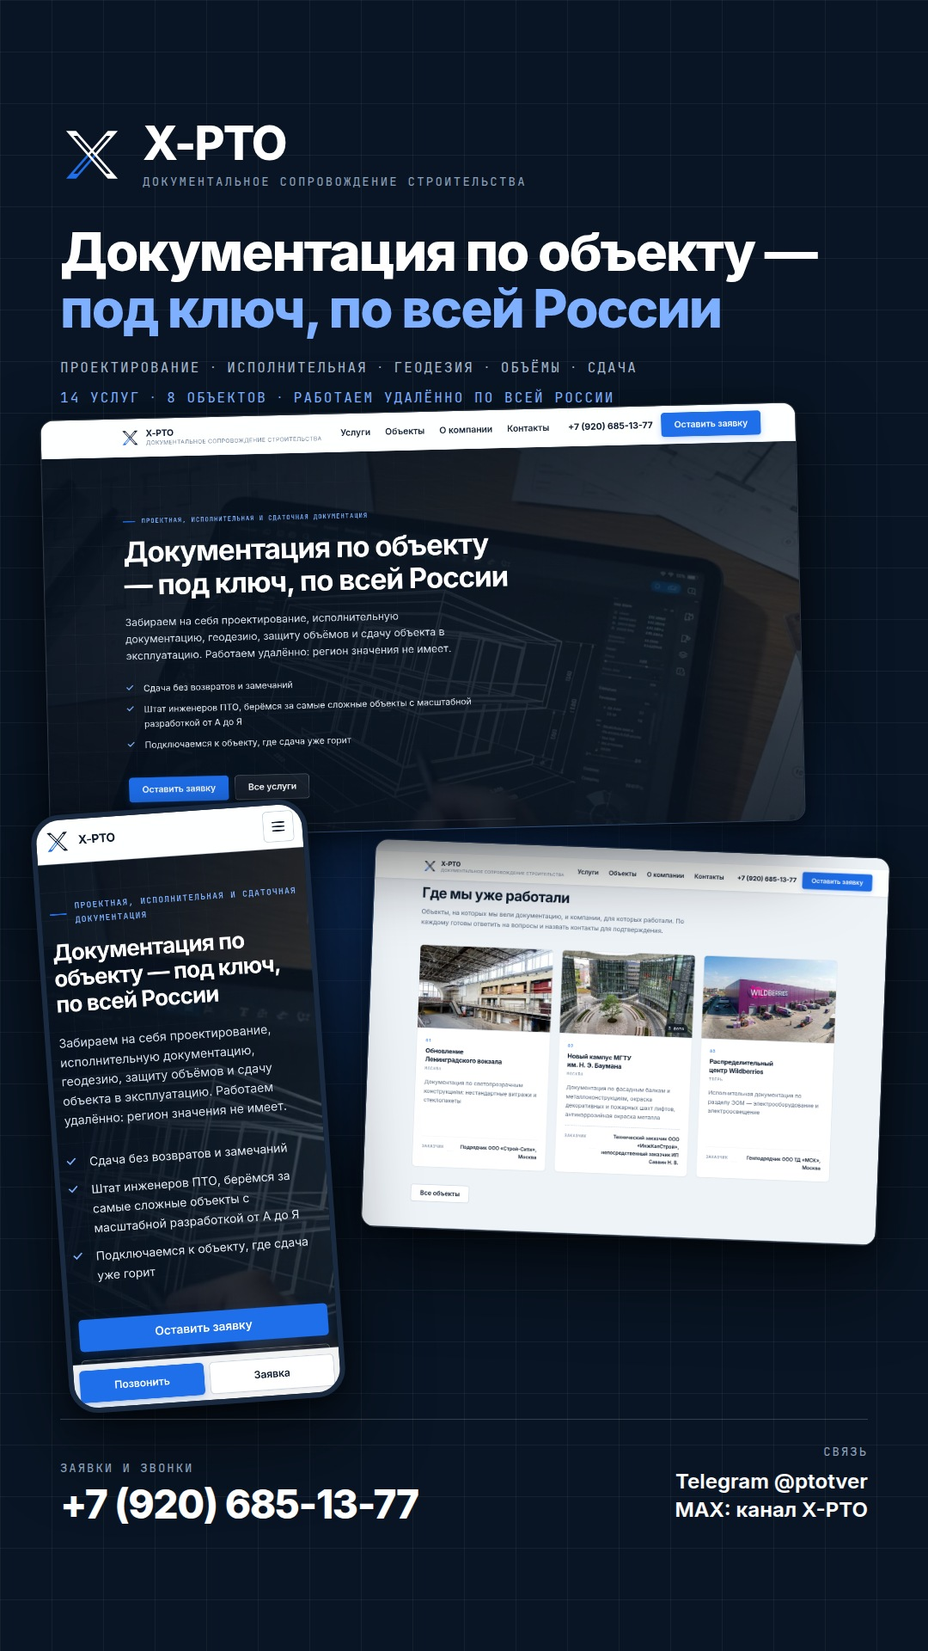
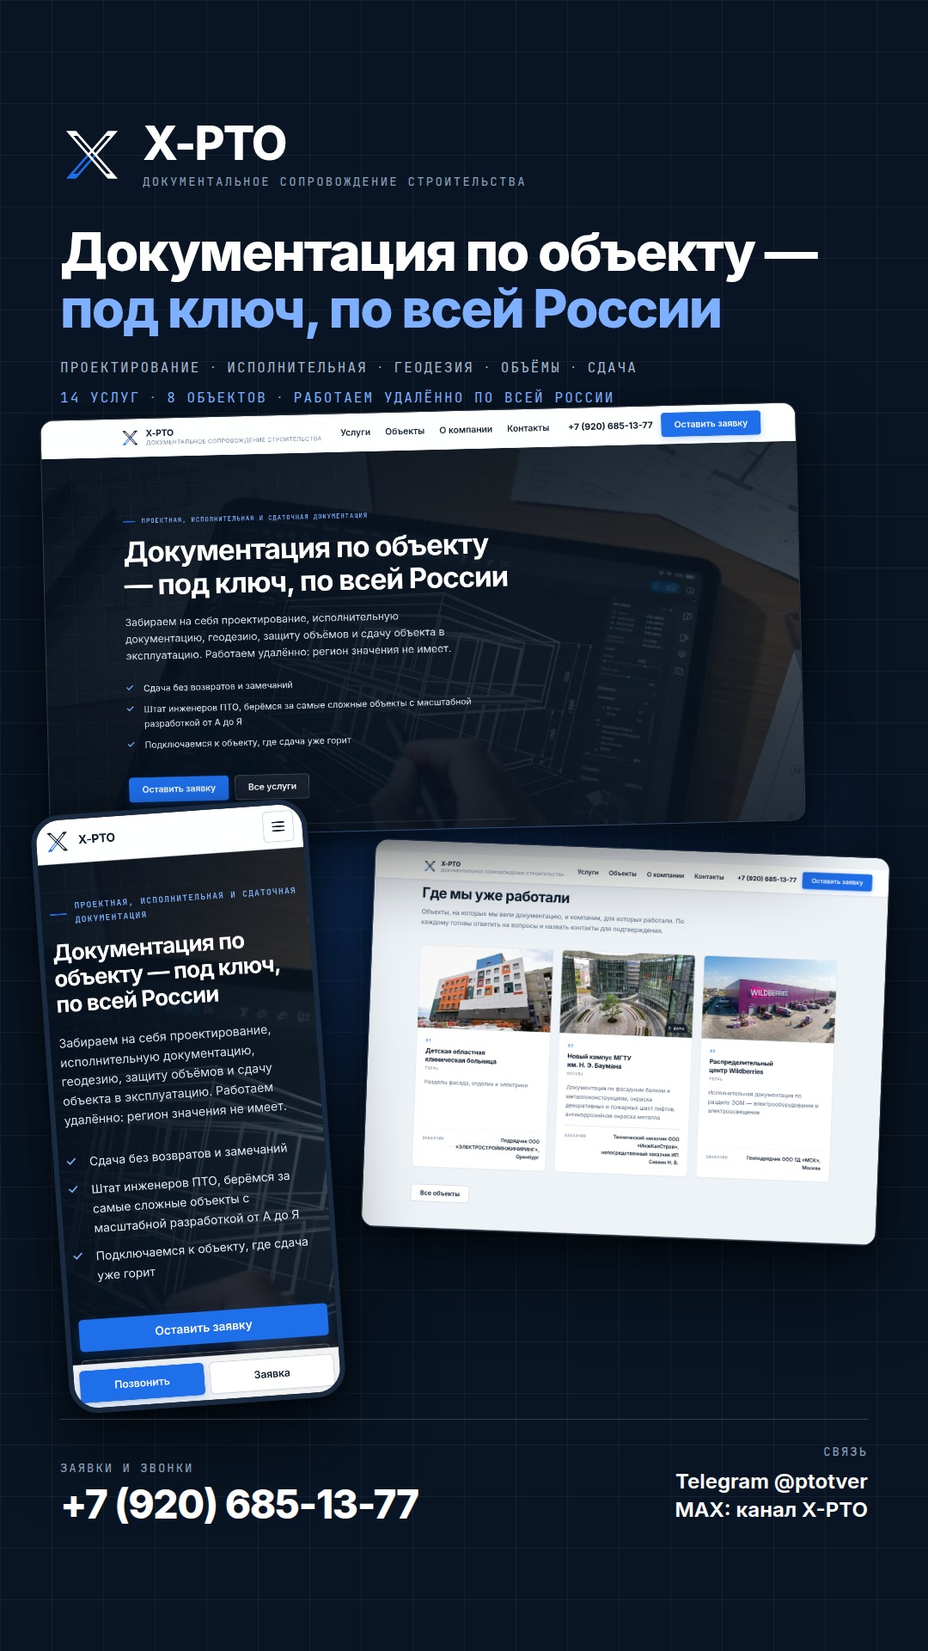
Благодарность Минстроя Татарстана, больница вперёд вокзала, кадры сторис
По замечаниям заказчика:

1. В раздел «Рекомендации» добавлена благодарность Министерства строительства,
   архитектуры и ЖКХ Республики Татарстан, подписанная министром М. М. Айзатуллиным.
   Она стоит первой: это документ от ведомства, а не от подрядчика. Год в приказе
   на фотографии перечёркнут подписью и не читается, поэтому в карточке стоит
   только номер приказа — выдумывать дату не стал.

   Чтобы одна и та же вёрстка карточки годилась и для письма, и для награды,
   подписи строк сделаны настраиваемыми: role_label, object_label, link_label.
   У письма это «Роль» и «Объект», у благодарности — «Кому» и «Подписал».

2. Детская областная клиническая больница переставлена в начало списка объектов
   вместо Ленинградского вокзала. Вокзал остался на сайте, но сместился на
   четвёртое место и больше не попадает в тройку на главной.

3. Кадры для сторис пересобраны под эти правки: в кадре «Объекты» вместо вокзала
   больница, в кадре «Письма» пять документов вместо четырёх — добавлена
   благодарность, заголовок и список компаний обновлены.

Changed region(s): [[0.4278, 0.5625, 0.6111, 0.6875], [0.55, 0.6875, 0.5806, 0.7188]]

diff --git a/pto-site/dist/obekty/index.html b/pto-site/dist/obekty/index.html
@@ -39,7 +39,7 @@
 <link rel="stylesheet" href="/assets/style.css">
 <script type="application/ld+json">{"@context":"https://schema.org","@type":"Organization","@id":"https://example.com/#organization","name":"X-PTO","legalName":"ИП Яковлев Андрей Эдуардович","description":"Готовим и защищаем документацию за строительные компании: проектирование, исполнительная документация, геодезия, объёмы, сдача объектов.","url":"https://example.com/","logo":"https://example.com/assets/img/logo.svg","image":"https://example.com/assets/img/og-default.png","email":"lopezr2@yandex.ru","telephone":"+79206851377","taxID":"695014483664","areaServed":{"@type":"Country","name":"Россия"},"contactPoint":[{"@type":"ContactPoint","telephone":"+79206851377","email":"lopezr2@yandex.ru","contactType":"sales","areaServed":"RU","availableLanguage":"Russian"}]}</script>
 <script type="application/ld+json">{"@context":"https://schema.org","@type":"BreadcrumbList","itemListElement":[{"@type":"ListItem","position":1,"name":"Главная","item":"https://example.com/"},{"@type":"ListItem","position":2,"name":"Объекты","item":"https://example.com/obekty/"}]}</script>
-<script type="application/ld+json">{"@context":"https://schema.org","@type":"ItemList","name":"Объекты","itemListElement":[{"@type":"ListItem","position":1,"name":"Обновление Ленинградского вокзала, Москва"},{"@type":"ListItem","position":2,"name":"Новый кампус МГТУ им. Н. Э. Баумана, Москва"},{"@type":"ListItem","position":3,"name":"Распределительный центр Wildberries, Тверь"},{"@type":"ListItem","position":4,"name":"Кинокластер «Москино» и «МЕТМАШ», Москва"},{"@type":"ListItem","position":5,"name":"Школа на 1224 места, Тверь"},{"@type":"ListItem","position":6,"name":"Детская областная клиническая больница, Тверь"},{"@type":"ListItem","position":7,"name":"Театр им. Г. Камала, новое здание, Казань"},{"@type":"ListItem","position":8,"name":"Спортшкола олимпийского резерва по гребле и парусному спорту им. А. Серединой, Тверь"}]}</script>
+<script type="application/ld+json">{"@context":"https://schema.org","@type":"ItemList","name":"Объекты","itemListElement":[{"@type":"ListItem","position":1,"name":"Детская областная клиническая больница, Тверь"},{"@type":"ListItem","position":2,"name":"Новый кампус МГТУ им. Н. Э. Баумана, Москва"},{"@type":"ListItem","position":3,"name":"Распределительный центр Wildberries, Тверь"},{"@type":"ListItem","position":4,"name":"Обновление Ленинградского вокзала, Москва"},{"@type":"ListItem","position":5,"name":"Кинокластер «Москино» и «МЕТМАШ», Москва"},{"@type":"ListItem","position":6,"name":"Школа на 1224 места, Тверь"},{"@type":"ListItem","position":7,"name":"Театр им. Г. Камала, новое здание, Казань"},{"@type":"ListItem","position":8,"name":"Спортшкола олимпийского резерва по гребле и парусному спорту им. А. Серединой, Тверь"}]}</script>
 </head>
 <body>
 <a class="skip-link" href="#main">Перейти к содержанию</a>
@@ -104,15 +104,15 @@
     <div class="container">
       <div class="object-grid">
         <article class="object">
-          <div class="object__media" style="background-image:url(/assets/img/objects/leningradsky-vokzal-moskva.webp)"></div>
+          <div class="object__media" style="background-image:url(/assets/img/objects/detskaya-bolnica-tver.webp)"></div>
           <div class="object__body">
             <span class="object__num">01</span>
-            <h3 class="object__name">Обновление Ленинградского вокзала</h3>
-            <span class="object__city">Москва</span>
-            <p class="object__scope">Документация по светопрозрачным конструкциям: нестандартные витражи и стеклопакеты</p>
+            <h3 class="object__name">Детская областная клиническая больница</h3>
+            <span class="object__city">Тверь</span>
+            <p class="object__scope">Разделы фасада, отделки и электрики</p>
             <div class="spec">
               <div class="spec__row"><span class="spec__key">Заказчик</span>
-                <span class="spec__dots"></span><span class="spec__val">Подрядчик ООО «Строй-Сити», Москва</span></div>
+                <span class="spec__dots"></span><span class="spec__val">Подрядчик ООО «ЭЛЕКТРОСТРОЙИНЖИНИРИНГ», Оренбург</span></div>
             </div>
           </div>
         </article>
@@ -143,9 +143,22 @@
           </div>
         </article>
         <article class="object">
-          <div class="object__media" style="background-image:url(/assets/img/objects/moskino-metmash.webp)"></div>
+          <div class="object__media" style="background-image:url(/assets/img/objects/leningradsky-vokzal-moskva.webp)"></div>
           <div class="object__body">
             <span class="object__num">04</span>
+            <h3 class="object__name">Обновление Ленинградского вокзала</h3>
+            <span class="object__city">Москва</span>
+            <p class="object__scope">Документация по светопрозрачным конструкциям: нестандартные витражи и стеклопакеты</p>
+            <div class="spec">
+              <div class="spec__row"><span class="spec__key">Заказчик</span>
+                <span class="spec__dots"></span><span class="spec__val">Подрядчик ООО «Строй-Сити», Москва</span></div>
+            </div>
+          </div>
+        </article>
+        <article class="object">
+          <div class="object__media" style="background-image:url(/assets/img/objects/moskino-metmash.webp)"></div>
+          <div class="object__body">
+            <span class="object__num">05</span>
             <h3 class="object__name">Кинокластер «Москино» и «МЕТМАШ»</h3>
             <span class="object__city">Москва</span>
             <p class="object__scope">Документация под ключ по четырём корпусам: все строительные разделы от котлована до отделки</p>
@@ -158,26 +171,13 @@
         <article class="object">
           <div class="object__media" style="background-image:url(/assets/img/objects/shkola-1224-tver.webp)"></div>
           <div class="object__body">
-            <span class="object__num">05</span>
+            <span class="object__num">06</span>
             <h3 class="object__name">Школа на 1224 места</h3>
             <span class="object__city">Тверь</span>
             <p class="object__scope">Все разделы от первой сваи до Заключения о соответствии, включая прохождение Ростехнадзора. Очная сдача застройщику</p>
             <div class="spec">
               <div class="spec__row"><span class="spec__key">Заказчик</span>
                 <span class="spec__dots"></span><span class="spec__val">Генподрядчик ООО «Еврохолдинг+», Казань</span></div>
-            </div>
-          </div>
-        </article>
-        <article class="object">
-          <div class="object__media" style="background-image:url(/assets/img/objects/detskaya-bolnica-tver.webp)"></div>
-          <div class="object__body">
-            <span class="object__num">06</span>
-            <h3 class="object__name">Детская областная клиническая больница</h3>
-            <span class="object__city">Тверь</span>
-            <p class="object__scope">Разделы фасада, отделки и электрики</p>
-            <div class="spec">
-              <div class="spec__row"><span class="spec__key">Заказчик</span>
-                <span class="spec__dots"></span><span class="spec__val">Подрядчик ООО «ЭЛЕКТРОСТРОЙИНЖИНИРИНГ», Оренбург</span></div>
             </div>
           </div>
         </article>

diff --git a/pto-site/dist/o-kompanii/index.html b/pto-site/dist/o-kompanii/index.html
@@ -135,8 +135,23 @@
 
   <section class="section">
     <div class="container">
-      <div class="section__head"><h2>Рекомендации</h2><p>Письма от компаний, с которыми работали. Каждое можно открыть целиком и проверить — контакты для подтверждения указаны в самих письмах.</p></div>
+      <div class="section__head"><h2>Рекомендации</h2><p>Письма от компаний, с которыми работали, и благодарность Министерства строительства Республики Татарстан. Каждый документ можно открыть целиком и проверить — контакты для подтверждения указаны в самих письмах.</p></div>
       <div class="grid grid--2">
+        <article class="card rec">
+          <div class="rec__head">
+            <h3>Министерство строительства, архитектуры и ЖКХ Республики Татарстан</h3>
+            <span class="rec__meta">Казань · приказ № 1158/к</span>
+          </div>
+          <blockquote class="rec__quote">За высокую трудовую активность, добросовестное выполнение должностных обязанностей.</blockquote>
+          <div class="spec">
+            <div class="spec__row"><span class="spec__key">Кому</span>
+              <span class="spec__dots"></span><span class="spec__val">Яковлеву А. Э., лично</span></div>
+            <div class="spec__row"><span class="spec__key">Подписал</span>
+              <span class="spec__dots"></span><span class="spec__val">Министр М. М. Айзатуллин</span></div>
+          </div>
+          <p class="rec__scope">Ведомственная благодарность за работу в строительной отрасли Республики Татарстан.</p>
+          <button class="rec__link" type="button" data-lightbox="/assets/docs/blagodarnost-minstroy-tatarstan.webp" data-caption="Министерство строительства, архитектуры и ЖКХ Республики Татарстан · Казань, приказ № 1158/к">Посмотреть благодарность</button>
+        </article>
         <article class="card rec">
           <div class="rec__head">
             <h3>ООО «МОНАРХ»</h3>

diff --git a/pto-site/dist/index.html b/pto-site/dist/index.html
@@ -283,15 +283,15 @@
       </div>
       <div class="object-grid">
         <article class="object">
-          <div class="object__media" style="background-image:url(/assets/img/objects/leningradsky-vokzal-moskva.webp)"></div>
+          <div class="object__media" style="background-image:url(/assets/img/objects/detskaya-bolnica-tver.webp)"></div>
           <div class="object__body">
             <span class="object__num">01</span>
-            <h3 class="object__name">Обновление Ленинградского вокзала</h3>
-            <span class="object__city">Москва</span>
-            <p class="object__scope">Документация по светопрозрачным конструкциям: нестандартные витражи и стеклопакеты</p>
+            <h3 class="object__name">Детская областная клиническая больница</h3>
+            <span class="object__city">Тверь</span>
+            <p class="object__scope">Разделы фасада, отделки и электрики</p>
             <div class="spec">
               <div class="spec__row"><span class="spec__key">Заказчик</span>
-                <span class="spec__dots"></span><span class="spec__val">Подрядчик ООО «Строй-Сити», Москва</span></div>
+                <span class="spec__dots"></span><span class="spec__val">Подрядчик ООО «ЭЛЕКТРОСТРОЙИНЖИНИРИНГ», Оренбург</span></div>
             </div>
           </div>
         </article>

diff --git a/pto-site/build.py b/pto-site/build.py
@@ -146,8 +146,12 @@ def block_media(site: Site, cfg: dict) -> str:
 
 
 def block_recommendations(site: Site, cfg: dict) -> str:
-    """Рекомендательные письма. У карточки без поля file ссылки нет —
-    так письмо можно показать текстом, не выкладывая сам документ."""
+    """Рекомендательные письма и награды. У карточки без поля file ссылки нет —
+    так документ можно показать текстом, не выкладывая сам файл.
+
+    Подписи строк можно переопределить (role_label, object_label, link_label):
+    у письма от компании это «Роль» и «Объект», а у благодарности от ведомства —
+    «Кому» и «Подписал». Одна вёрстка, разные подписи."""
     if not cfg or not cfg.get("items"):
         return ""
     cards = []
@@ -161,7 +165,7 @@ def block_recommendations(site: Site, cfg: dict) -> str:
             link = (f'<button class="rec__link" type="button"'
                     f' data-lightbox="{site.url(r["image"])}"'
                     f' data-caption="{esc(r["company"])} · {esc(r["city"])}, {esc(r["date"])}"'
-                    f'{pdf}>Посмотреть письмо</button>')
+                    f'{pdf}>{esc(r.get("link_label", "Посмотреть письмо"))}</button>')
         cards.append(f'''        <article class="card rec">
           <div class="rec__head">
             <h3>{esc(r["company"])}</h3>
@@ -169,9 +173,9 @@ def block_recommendations(site: Site, cfg: dict) -> str:
           </div>
           <blockquote class="rec__quote">{esc(r["quote"])}</blockquote>
           <div class="spec">
-            <div class="spec__row"><span class="spec__key">Роль</span>
+            <div class="spec__row"><span class="spec__key">{esc(r.get("role_label", "Роль"))}</span>
               <span class="spec__dots"></span><span class="spec__val">{esc(r["role"])}</span></div>
-            <div class="spec__row"><span class="spec__key">Объект</span>
+            <div class="spec__row"><span class="spec__key">{esc(r.get("object_label", "Объект"))}</span>
               <span class="spec__dots"></span><span class="spec__val">{esc(r["object"])}</span></div>
           </div>
           <p class="rec__scope">{esc(r["scope"])}</p>

diff --git a/pto-site/README.md b/pto-site/README.md
@@ -178,7 +178,10 @@ python3 -c "import json;json.load(open('data/site.json',encoding='utf-8'))"
 | `about`, `contacts_page`, `services_index` | тексты соответствующих страниц |
 | `contacts_page.notes` | подписи под способами связи на странице «Контакты» |
 | `contacts_page.checklist` | список «Что прислать, чтобы оценка была точной» там же |
-| `portfolio`, `recommendations` | объекты и рекомендательные письма |
+| `portfolio` | объекты: порядок в файле = порядок на сайте, первые три попадают на главную |
+| `recommendations` | письма и награды. Подписи строк в карточке можно переопределить
+полями `role_label`, `object_label`, `link_label` — так у благодарности от ведомства
+вместо «Роль» и «Объект» стоят «Кому» и «Подписал» |
 | `groups` | четыре группы, по которым разложены услуги |
 | `form` | подписи и сообщения формы заявки |
 
